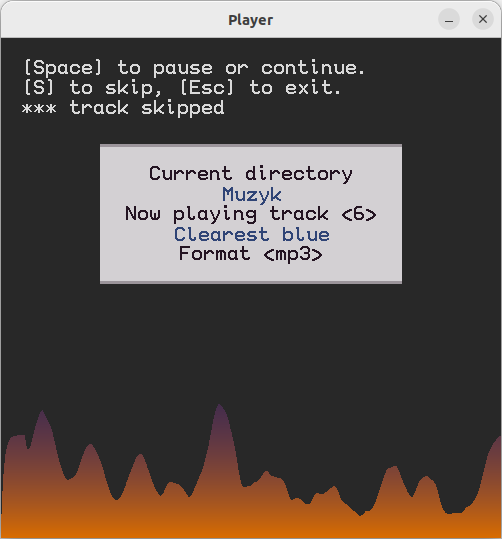
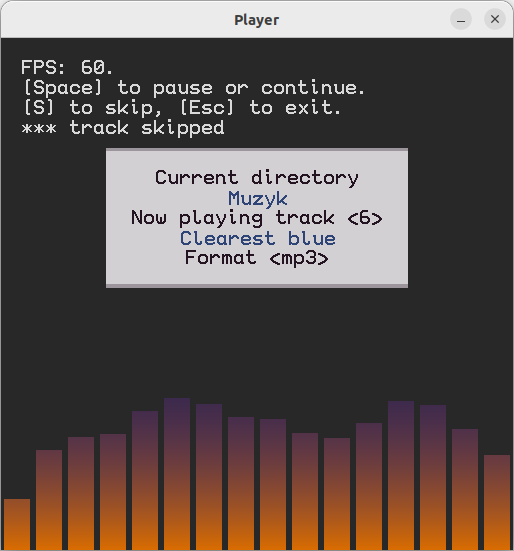
Switched to bins, now everything looks better

Changed region(s): [[0.0, 0.0297, 1.0, 0.5343], [0.0, 0.7124, 1.0, 1.0]]

diff --git a/src/mesh.rs b/src/mesh.rs
@@ -259,14 +259,6 @@ impl Mesh {
 
         let mut tex_uv;
 
-        // let mut smax: i16 = 1;
-
-        // for l in 0..settings::SAMPLES {
-        //     if stats[l].abs() > smax {
-        //         smax = stats[l].abs()
-        //     }
-        // }
-
         let smax_f = 32767 as f32;
 
         let mut snorm: [f32; settings::SAMPLES] = [0.0; settings::SAMPLES];
@@ -277,30 +269,22 @@ impl Mesh {
 
         lowpass_filter(&mut snorm, settings::SAMPLES as f32, 16.0);
 
-        let mut snorm1: [f32; settings::SAMPLES] = [0.0; settings::SAMPLES];
+        let mut snorm2: [f32; settings::BINS] = [0.0; settings::BINS];
 
-        for l in 0..(settings::SAMPLES/2) {
-            for k in 0..settings::AVERAGE_FREQ {
-                snorm1[l] += snorm[l+k].abs()/ settings::AVERAGE_FREQ as f32
+        
+
+        for l in 0..settings::BINS {
+            for k in 0..settings::BIN_SAMPLES {
+                snorm2[l] += snorm[settings::BIN_SAMPLES*l+k] / settings::BIN_SAMPLES as f32;
             }
         }
 
-        for l in (settings::SAMPLES/2)..settings::SAMPLES {
-            for k in 0..settings::AVERAGE_FREQ {
-                snorm1[l] += snorm[l-k].abs() / settings::AVERAGE_FREQ as f32
-            }
-        }
+        let x0: f32 = 0.1/settings::BINS as f32;
 
-        let mut snorm2: [f32; settings::SAMPLES] = [0.0; settings::SAMPLES];
+        let dx: f32 = 0.8/settings::BINS as f32;
 
-        for l in 0..settings::SAMPLES {
-            snorm2[l] = 0.5*(snorm1[l] + snorm1[settings::SAMPLES-1-l])
-        }
-
-        let dx: f32 = 1.0/settings::SAMPLES as f32;
-
-        for l in 0..settings::SAMPLES {
-            let lf = l as f32 / settings::SAMPLES as f32;
+        for l in 0..settings::BINS {
+            let lf = l as f32 / settings::BINS as f32;
 
             tex_uv = TextureUV {
                 u1: lf,
@@ -309,7 +293,7 @@ impl Mesh {
                 v2: snorm2[l],
             };
 
-            let x = lf+dx-0.5;
+            let x = lf+dx-0.5 + x0;
             let y = snorm2[l] - 0.5;
             vertices.push(Vertex {
                 pos: Vec3 { x, y, z: 0.0 },
@@ -319,7 +303,7 @@ impl Mesh {
                 },
                 act: 0.0,
             }); // top right
-            let x = lf+dx-0.5;
+            let x = lf+dx-0.5 + x0;
             let y = -0.5;
             vertices.push(Vertex {
                 pos: Vec3 { x, y, z: 0.0 },
@@ -329,7 +313,7 @@ impl Mesh {
                 },
                 act: 0.0,
             }); // bottom right
-            let x = lf-0.5;
+            let x = lf-0.5 + x0;
             let y = -0.5;
             vertices.push(Vertex {
                 pos: Vec3 { x, y, z: 0.0 },
@@ -339,7 +323,7 @@ impl Mesh {
                 },
                 act: 0.0,
             }); // bottom left
-            let x = lf-0.5;
+            let x = lf-0.5 + x0;
             let y = snorm2[l] - 0.5;
             vertices.push(Vertex {
                 pos: Vec3 { x, y, z: 0.0 },

diff --git a/src/settings.rs b/src/settings.rs
@@ -5,12 +5,14 @@ pub const HEIGHT0: i32 = 512;
 pub const WIDTH: u32 = 512;
 pub const HEIGHT: u32 = 512;
 pub const FT_DESIRED: f64 = 1.0/60.0;
-pub const SAMPLING_TIME: f64 = 1.0/30.0;
+pub const SAMPLING_TIME: f64 = 1.0/60.0;
 pub const MAX_QUADS_OVERLAY: usize = 1000;
 pub const MAX_VERTICES_OVERLAY: usize = MAX_QUADS_OVERLAY*4;
 pub const MAX_INDICES_OVERLAY: usize = MAX_QUADS_OVERLAY*6;
 pub const SAMPLES: usize = 512;
-pub const AVERAGE_FREQ: usize = 16;
+pub const _AVERAGE_FREQ: usize = 16;
+pub const BINS: usize = 16;
+pub const BIN_SAMPLES: usize = SAMPLES/BINS;
 pub const AVERAGE_TIME: usize = 1;
 pub const MAX_VERTICES_VISUALS: usize = SAMPLES*4;
 pub const MAX_INDICES_VISUALS: usize = SAMPLES*6;
